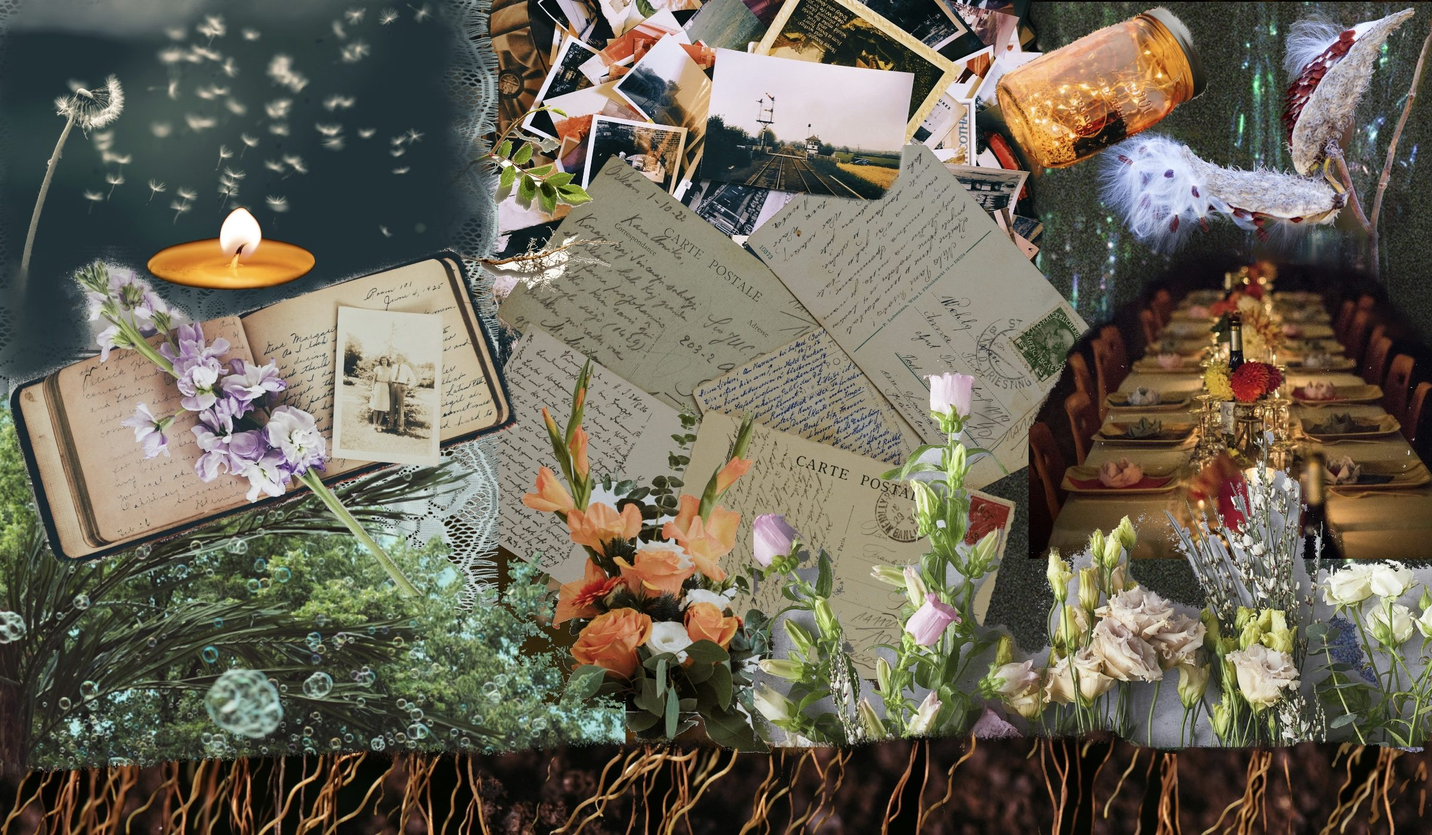
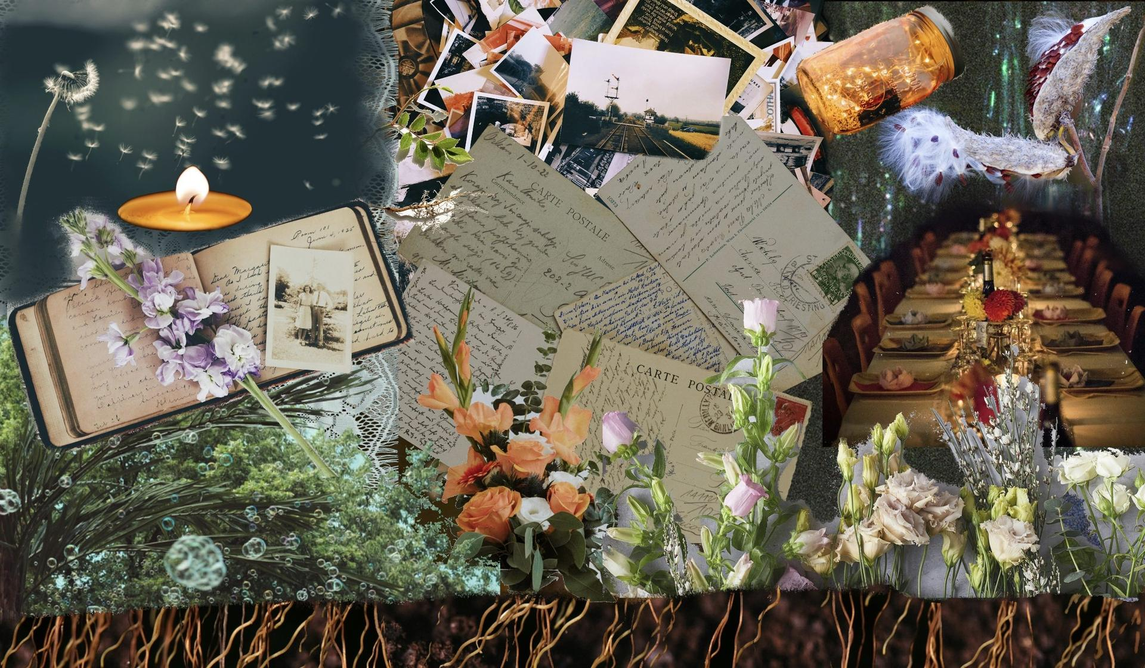
Discoverability: descriptions, titles, canonical links, lighter background
- Homepage gets its own search description, editable in Pages CMS
  ("Home: description Google shows under the title").
- Celebration style pages get descriptive titles that say what they are.
- Every page names its canonical address.
- Business details list the towns served and link the Google Business
  Profile.
- Background collage resized to 1920px wide: 722 KB to 406 KB, same look.

Claude-Session: https://claude.ai/code/session_011MgnuDPPcyysDfMpMHL2sF

Changed region(s): [[0.5625, 0.0, 0.5938, 0.0312]]

diff --git a/index.html b/index.html
@@ -8,11 +8,11 @@ layout: null
 <meta charset="utf-8">
 <meta name="viewport" content="width=device-width, initial-scale=1, viewport-fit=cover">
 <title>Grave and Seed | Celebrations of life in Ann Arbor</title>
-<meta name="description" content="{{ c.tagline_start }}{% if c.tagline_emphasis != "" %} {{ c.tagline_emphasis }}{% endif %}.">
+<meta name="description" content="{% if c.meta_description and c.meta_description != "" %}{{ c.meta_description }}{% else %}{{ c.tagline_start }}{% if c.tagline_emphasis != "" %} {{ c.tagline_emphasis }}{% endif %}.{% endif %}">
 {% include head.html %}
 
 <script type="application/ld+json">
-{"@context":"https://schema.org","@type":"ProfessionalService","name":"Grave and Seed","description":"Celebration of life planning in Ann Arbor, Michigan.","url":"https://graveandseed.com","email":"{{ c.email }}","telephone":"+1-734-489-9915","image":"https://graveandseed.com/assets/share.jpg","logo":"https://graveandseed.com/assets/icon-180.png","areaServed":{"@type":"AdministrativeArea","name":"Washtenaw County, Michigan"},"address":{"@type":"PostalAddress","addressLocality":"Ann Arbor","addressRegion":"MI","addressCountry":"US"},"priceRange":"$$"}
+{"@context":"https://schema.org","@type":"ProfessionalService","name":"Grave and Seed","description":"Celebration of life planning in Ann Arbor, Michigan.","url":"https://graveandseed.com","email":"{{ c.email }}","telephone":"+1-734-489-9915","image":"https://graveandseed.com/assets/share.jpg","logo":"https://graveandseed.com/assets/icon-180.png","areaServed":[{"@type":"AdministrativeArea","name":"Washtenaw County, Michigan"},{"@type":"City","name":"Ann Arbor, Michigan"},{"@type":"City","name":"Ypsilanti, Michigan"},{"@type":"City","name":"Dexter, Michigan"},{"@type":"City","name":"Saline, Michigan"},{"@type":"City","name":"Chelsea, Michigan"}],"sameAs":["https://www.google.com/maps?cid=17332117641198366502"],"address":{"@type":"PostalAddress","addressLocality":"Ann Arbor","addressRegion":"MI","addressCountry":"US"},"priceRange":"$$"}
 </script>
 </head>
 <body>

diff --git a/_includes/head.html b/_includes/head.html
@@ -5,6 +5,7 @@
 <meta property="og:type" content="website">
 <meta property="og:title" content="{% if page.title %}{{ page.title }} | {% endif %}Grave and Seed">
 <meta property="og:description" content="{% if page.description %}{{ page.description }}{% else %}Celebrations of life and memorials in Ann Arbor.{% endif %}">
+<link rel="canonical" href="https://graveandseed.com{{ page.url | replace: 'index.html', '' }}">
 <meta property="og:url" content="https://graveandseed.com{{ page.url | replace: 'index.html', '' }}">
 <meta property="og:image" content="https://graveandseed.com/assets/share.jpg">
 <meta name="twitter:card" content="summary_large_image">

diff --git a/celebrations/last-roll.html b/celebrations/last-roll.html
@@ -1,6 +1,6 @@
 ---
 layout: style
-title: Last Roll celebrations of life
+title: A Last Roll - a celebration of life for gamers
 heading: A Last Roll
 lede: A celebration of life for the gamers, the fans and the people who lived in other worlds too.
 description: Celebrations of life for gamers and fans in Ann Arbor. Dice, character sheets, a campaign recap and a send-off that feels like them.

diff --git a/celebrations/chosen-kin.html b/celebrations/chosen-kin.html
@@ -1,6 +1,6 @@
 ---
 layout: style
-title: Chosen family celebrations of life
+title: Chosen family celebrations of life in Ann Arbor
 heading: Chosen Kin
 lede: A celebration of life run by the people who knew them best.
 description: Celebrations of life for chosen family and friends in Ann Arbor, held on your terms, separate from any official service.

diff --git a/celebrations/long-table.html b/celebrations/long-table.html
@@ -1,6 +1,6 @@
 ---
 layout: style
-title: The Long Table
+title: The Long Table - a celebration of life meal in Ann Arbor
 heading: The Long Table
 lede: A shared meal, one long table, and time for stories.
 description: A celebration of life built around a shared meal in Ann Arbor. One long table, good food and time to remember together.

diff --git a/celebrations/proper-send-off.html b/celebrations/proper-send-off.html
@@ -1,6 +1,6 @@
 ---
 layout: style
-title: A Proper Send-Off
+title: A Proper Send-Off - celebration of life in Ann Arbor
 heading: A Proper Send-Off
 lede: Toasts, a loud room and the songs they'd have picked.
 description: A celebration of life with toasts, stories and music in Ann Arbor. Plainspoken planning, no euphemisms.
